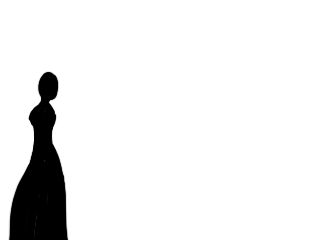
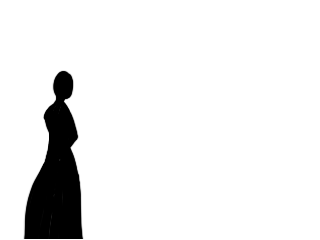
art2

Changed region(s): [[0.0, 0.2917, 0.2812, 1.0]]

diff --git a/lib/game/entities/sword.js b/lib/game/entities/sword.js
@@ -7,7 +7,7 @@ ig.module('game.entities.sword')
 
             man: new ig.Image('media/man.png'),
 
-            manf: new ig.Image('media/man-f.png'),
+            manf: new ig.Image('media/manf.png'),
 
             zIndex: 100,
 
@@ -284,22 +284,19 @@ ig.module('game.entities.sword')
 
                 var ctx = ig.system.context;
 
+                ctx.scale(0.5, 0.5);
                 switch (this.player) {
                     case 0:
-                        ctx.scale(0.5, 0.5);
-                        this.man.draw((this.pos.x - ig.system.width / 6 * 1) * 0.5, 0);
-                        ctx.scale(2, 2);
+                        this.man.draw((this.pos.x - ig.system.width / 6 * 1 + 30) * 0.5, 0);
                         break;
                     case 1:
+                        this.manf.draw((this.pos.x - ig.system.width / 6 * 5 - 30) * 0.5, 0);
                         break;
                     default:
                         break;
                 }
 
-                ctx.lineWidth = 5
-                    ;
-
-                ctx.strokeStyle = "#000000";
+                ctx.scale(2, 2);
 
                 ctx.save();
 
@@ -307,6 +304,10 @@ ig.module('game.entities.sword')
                 //console.log(this.pos);
 
                 ctx.rotate(this.angle * Math.PI / 180);
+
+                ctx.lineWidth = 5;
+
+                ctx.strokeStyle = "#000000";
                 ctx.beginPath();
 
                 ctx.moveTo(this.offset, 0);
@@ -314,7 +315,19 @@ ig.module('game.entities.sword')
                 ctx.stroke();
 
                 ctx.closePath();
+/*
+                ctx.lineWidth = 3.5;
 
+                ctx.strokeStyle = "#000000";
+
+                ctx.beginPath();
+
+                ctx.moveTo(this.offset, 2.5 * ((this.player == 0) ? 1 : -1));
+                ctx.lineTo(this.offset + (this.length * this.health), 2.5 * ((this.player == 0) ? 1 : -1));
+                ctx.stroke();
+
+                ctx.closePath();
+*/
                 ctx.restore();
 
             }

diff --git a/index.html b/index.html
@@ -9,8 +9,8 @@
 		@font-face{
 			font-family:'YOZAKURA';
 			src:
-				url('media/fonts/YOZAKURA-regular.woff') format('woff'),	
-				url('media/fonts/YOZAKURA-regular.ttf');		
+				url('media/fonts/YOZAKURA-Regular.woff') format('woff'),	
+				url('media/fonts/YOZAKURA-Regular.ttf');		
 		} 		
 
 		html,body {
